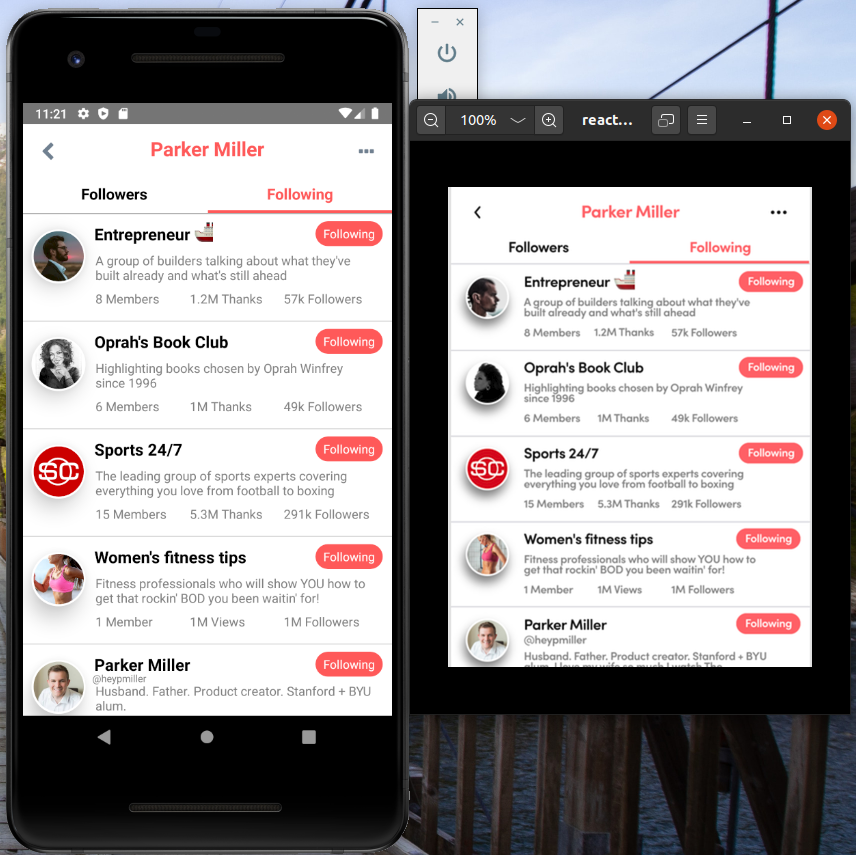
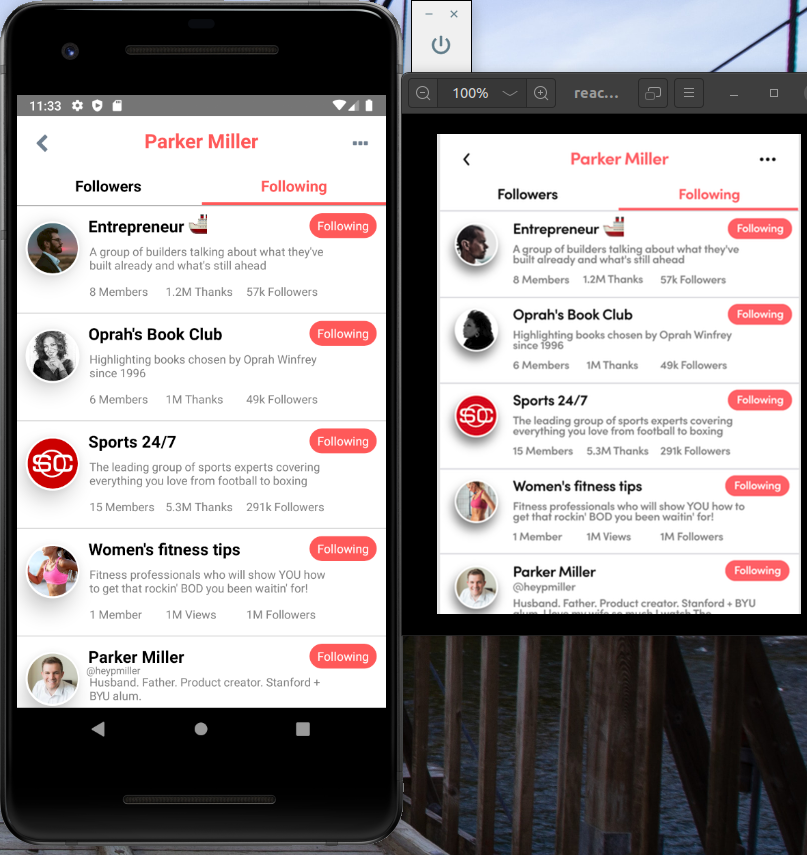
about there

diff --git a/src/components/ListItem.js b/src/components/ListItem.js
@@ -132,14 +132,14 @@ listItem: {
         borderWidth: 0,
         position: 'absolute',
         height: 75,
-        width: 310,
+        width: 270,
         left: 80,
         bottom: 5,
         elevation: 0,
     },
         description: {
             position: 'absolute',
-            fontSize: 14,
+            fontSize: 12.75,
             color: 'grey',
             top: 3,
             left: 1,
@@ -151,7 +151,7 @@ listItem: {
             borderWidth: 0,
             position: 'absolute',
             height: 20,
-            width: 100,
+            width: 80,
             left: 0,
             bottom: 10,
         },
@@ -162,8 +162,8 @@ listItem: {
             borderWidth: 0,
             position: 'absolute',
             height: 20,
-            width: 100,
-            left: 105,
+            width: 80,
+            left: 85,
             bottom: 10,
         },
         /* div within "textcontainer" that stores the stat figure 3*/
@@ -173,17 +173,18 @@ listItem: {
             borderWidth: 0,
             position: 'absolute',
             height: 20,
-            width: 100,
-            left: 210,
+            width: 90,
+            left: 175,
             bottom: 10,
         },
             /* handles statistical figure's font and text*/
             stats: {
                 position: 'absolute',
-                fontSize: 14,
+                fontSize: 12.75,
                 color: 'gray',
                 bottom: 0,
                 left: 1,
+                textAlign: 'left',
             },
 });
 
